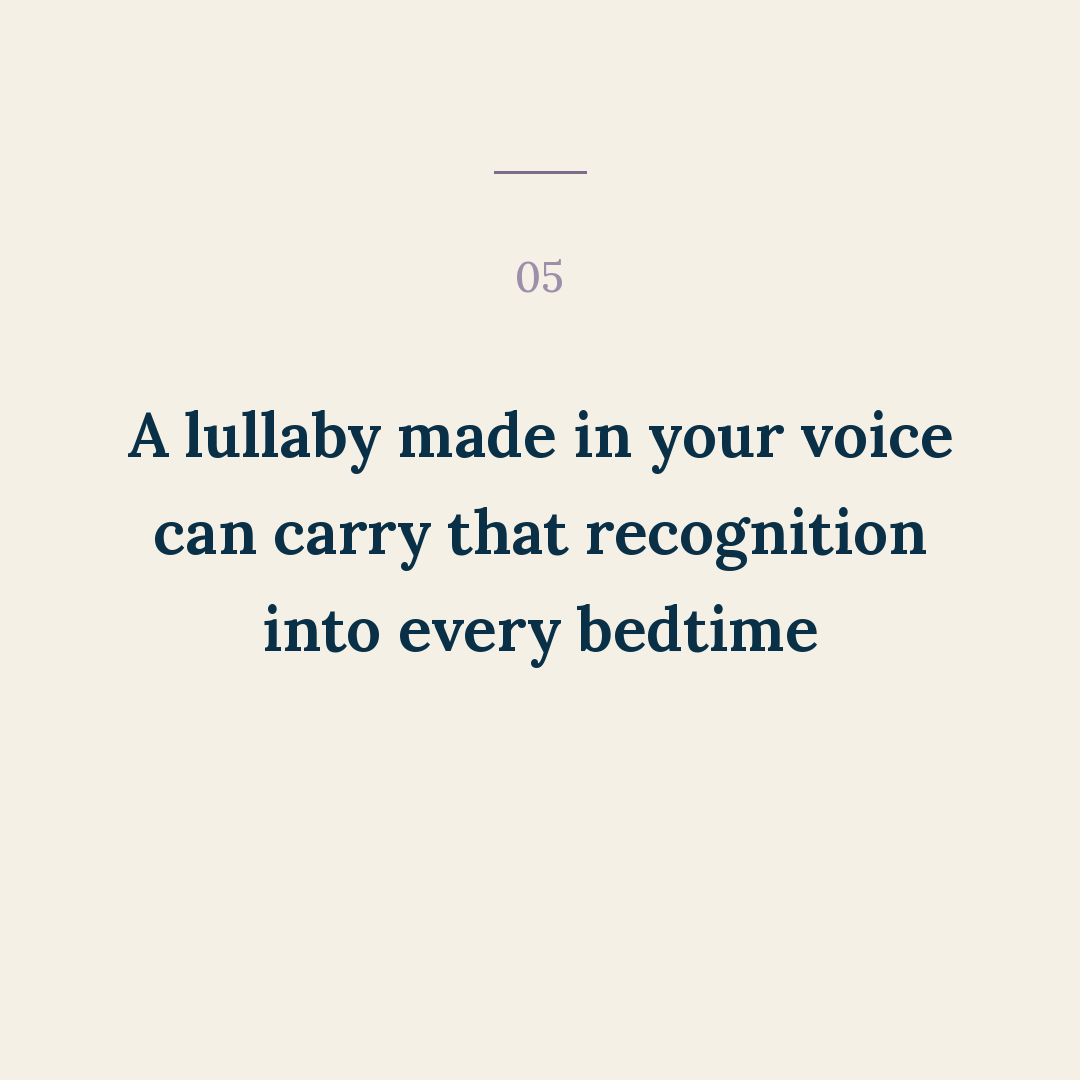
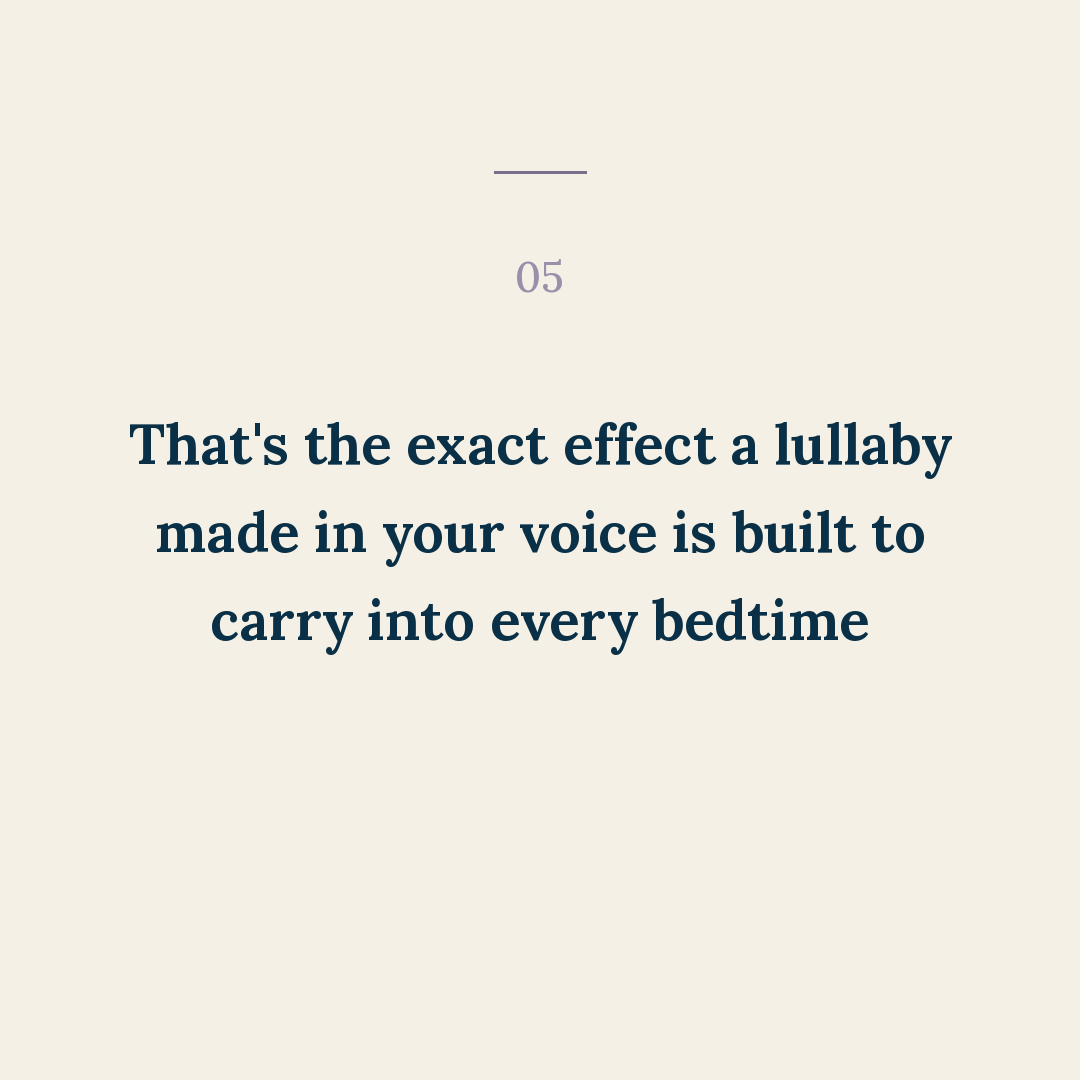
Add 53-voice-they-can-already-pick-out (53 - Voice They Can Already Pick Out)

Changed region(s): [[0.1222, 0.3667, 0.8861, 0.6111]]

diff --git a/posts/53-voice-they-can-already-pick-out/slides.md b/posts/53-voice-they-can-already-pick-out/slides.md
@@ -3,17 +3,22 @@
 Format: carousel · bg cream · Lullaby-subject (Authority/science lane) · angle C (your voice) · hook #71
 
 ## Cover
-The one voice your newborn can already pick out of every sound in the room…
+The one voice your newborn can already pick out…
 
 ## Items
 01  Newborns can start recognizing a parent's voice within days of birth
 02  A familiar voice may cut through noise that would otherwise startle them
-03  The same voice, night after night, can become a cue their body learns to trust
-04  It doesn't have to be pitch-perfect — familiarity matters more than tone
-05  A lullaby made in your voice can carry that recognition into every bedtime
+03  The same voice, day after day, night after night, can become a cue their body learns to trust
+04  Plenty of parents say their own humming works faster than anything else in the house
+05  That's the exact effect a lullaby made in your voice is built to carry into every bedtime
 
 ## Closer (website — LOCKED card)
-render_cta default main + url. Eyebrow only: "It's not about hitting the right notes."
+render_cta default main + url. Eyebrow only: "Any lullaby can work, but…"
+
+REVISED 2026-08-16 per Ben's review: cover shortened; item 03 extended ("day after day," added); items
+04-05 rewritten from Ben's in-place draft notes into finished slide copy (04 = the humming/parents-say
+claim he sketched, framed as self-report not a clinical claim; 05 reworded to avoid repeating item 03's
+"cue" language and instead bridge into the CTA); eyebrow updated to his new line.
 
 Render with render_cover / render_items_for_post / render_cta, weight 650, bg BG_CREAM, credibility=True on cover.
 Claims hedged with can/may throughout — no absolutes.
